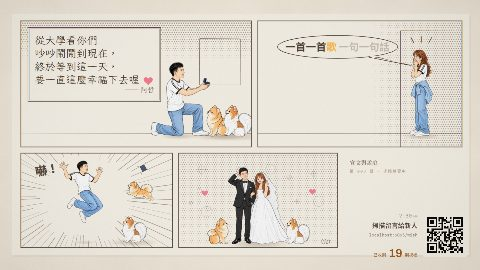
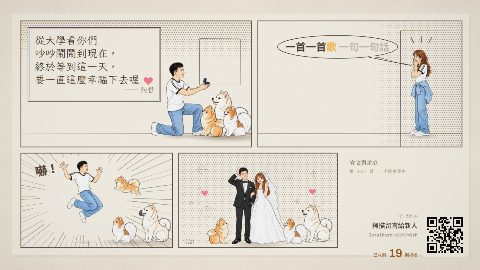
大螢幕：四格漫畫（元元接住飛走的戒指盒）、拍貼機（第四格元元擠進中間）加入元元

diff --git a/frontend/src/wall/scenes/comic.ts b/frontend/src/wall/scenes/comic.ts
@@ -1,8 +1,8 @@
 // 四格漫畫（亮、cartoon）：一頁報紙的彩色四格，兩人的小劇情「求婚練習」。角色是 Codex 畫的漫畫線稿紙偶（*_comic_*）。
-//  - 起：宣文單膝跪地、對著芃芃和 QQ 練習求婚（兩隻狗歪頭）。
+//  - 起：宣文單膝跪地、對著三隻狗練習求婚（芃芃、QQ、元元坐成一排歪頭；元元是 2026-09-30 加入的白色柴犬，比較大、坐在後面）。
 //    承：孟庭從門邊出現，摀住嘴、臉紅（頭上冒驚嘆號）。
-//    轉：宣文嚇得跳起來，戒指盒飛上天，芃芃飛撲去咬（速度線、「嚇！」）。
-//    合：婚禮那天，孟庭秀戒指、宣文抓頭傻笑，兩隻狗坐在前面，愛心一拍冒一顆。
+//    轉：宣文嚇得跳起來，戒指盒飛上天，芃芃飛撲去咬、撲空，元元坐著不動、兩拍後盒子剛好落進牠嘴裡（速度線、「嚇！」）。
+//    合：婚禮那天，孟庭秀戒指、宣文抓頭傻笑，三隻狗坐在兩邊，愛心一拍冒一顆。
 //  - 一格一格出現：前兩格在第一小節裡（第一拍、第三拍，留言和歌詞才來得及），後兩格各在小節線上「啪」一下貼上去（放大一點點再落定）。
 //    每一格裡的角色都跟著拍子動（點頭、歪頭、在空中晃、愛心冒出來），像動態漫畫。
 //  - **焦點是主打留言**：第一格左上的旁白框（漫畫的方框旁白，細的雙線框），手寫字、署名；照「留言尺寸與版面比例標準 v2」：
@@ -16,8 +16,8 @@ import { F, font, loadText } from '../engine/type';
 import { rgba, mixRgba } from '../engine/palette';
 import { clamp, ease, prog, hash } from '../engine/util';
 import { lyricAt, layoutLyric, drawLyric, barAfter, beatAfter, msgChars } from './_motifs';
-import { inkFor, inkLine, inkPath, inkPoly, heartPop, drawNote, paperBG, type Pt, type Ink, type Note } from './_couple';
-import { loadPuppets, drawPuppet, puppetBox, puppetShadow, puppetIn, breathe, beatKick, noteV2, tightenNote, type PuppetOpts } from './_puppet';
+import { inkFor, inkLine, inkPath, inkPoly, heartPop, arcAt, drawNote, paperBG, type Pt, type Ink, type Note } from './_couple';
+import { loadPuppets, drawPuppet, puppetBox, puppetPoint, puppetShadow, puppetIn, breathe, beatKick, noteV2, tightenNote, type PuppetOpts } from './_puppet';
 import { lyricV2 } from './_v2';
 
 export const spec: PlateSpecDecl = { group: 'couple', family: 'cartoon', paper: true, energy: [0.3, 1], bars: [4, 8] };
@@ -38,7 +38,7 @@ const BUB = { x: 1052, y: 124, w: 520 };
 const INVITE = '掃描右下角 QR code，把祝福寫上大螢幕';
 const P = {
   kneel: 'xw_comic_kneel', jump: 'xw_comic_jump', surprise: 'mt_comic_surprise',
-  ppSit: 'pp_comic_sit', qqSit: 'qq_comic_sit', ppJump: 'pp_comic_jump', wedding: 'cp_comic_wedding',
+  ppSit: 'pp_comic_sit', qqSit: 'qq_comic_sit', ppJump: 'pp_comic_jump', yySit: 'yy_comic_sit', wedding: 'cp_comic_wedding',
 } as const;
 
 export default class Comic extends Scene {
@@ -155,9 +155,8 @@ export default class Comic extends Scene {
     c.restore();
     c.font = font(F.hei(500), 20);
     c.fillStyle = rgba('sepia', 0.6);
-    c.textAlign = 'right';
-    c.fillText('（完）', P4.x + P4.w - 16, P4.y + P4.h - 16);
-    c.textAlign = 'left';
+    // 放在左下角：右下角坐著元元（尾巴會蓋到字）
+    c.fillText('（完）', P4.x + 14, P4.y + P4.h - 16);
     // 框線（粗一點的墨線）
     c.strokeStyle = rgba('sepia', 0.92);
     c.lineWidth = 3;
@@ -223,7 +222,8 @@ export default class Comic extends Scene {
     const xa = p.x + 620;
     puppetShadow(c, 'xw', xa, floor, { h: SZ, alpha: 0.22 * en.alpha, color: '70,45,25' });
     drawPuppet(c, P.kneel, xa, floor, { h: SZ, spin: en.spin, alpha: en.alpha, squash: 0.02 * kick + breathe(t, 0.01, 1.6), rot: -0.02 * kick, pivot: 0.1 });
-    const dogs: [string, number][] = [[P.ppSit, p.x + 770], [P.qqSit, p.x + 845]];
+    // 三隻狗坐在他面前歪頭看：元元比較大、坐在後面（先畫），兩隻博美在前面；三隻同一個縮放
+    const dogs: [string, number][] = [[P.yySit, p.x + 812], [P.ppSit, p.x + 745], [P.qqSit, p.x + 842]];
     dogs.forEach(([n, x], k) => {
       const tilt = (beat + k) % 2 === 0 ? 0.08 : -0.02;
       puppetShadow(c, n, x, floor, { h: SZ * 1.2, alpha: 0.2 * en.alpha, color: '70,45,25' });
@@ -313,27 +313,36 @@ export default class Comic extends Scene {
     const xa = p.x + 250;
     puppetShadow(c, 'xw', xa, floor, { h: SZ, lift: 60 * up, alpha: 0.22 * en.alpha, color: '70,45,25' });
     drawPuppet(c, P.jump, xa, floor - 60 * up - bob, { h: SZ, spin: en.spin, alpha: en.alpha, rot: -0.06 * up, pivot: 0.5 });
-    // 戒指盒：從他手上飛出去，轉著往右上
+    // 戒指盒：從他手上飛出去、轉著畫一道弧線，兩拍後落進元元嘴裡（芃芃飛撲撲空，元元坐著不動就接到了）
+    const yx = p.x + 522, yo: PuppetOpts = { h: SZ, scale: 1.3, flip: true };
+    const mouth = puppetPoint(P.yySit, 'mouth', yx, floor, yo) ?? { x: yx - 60, y: floor - 120 };
     const k = clamp((t - t0) / (bp * 2));
-    const bxx = xa + 60 + 170 * k, byy = floor - 180 - 110 * Math.sin(Math.PI * 0.5 * k) + 4 * Math.sin(t * 7);
+    const from = { x: xa + 60, y: floor - 180 };
+    const q = k < 1 ? arcAt(from, mouth, Math.min(from.y, mouth.y) - 110, ease.inOutCubic(k)) : mouth;
+    const bxx = q.x, byy = q.y;
     c.save();
-    c.translate(bxx, byy); c.rotate(t * 5);
+    c.translate(bxx, byy); c.rotate(k < 1 ? t * 5 : 0.25);
     c.fillStyle = mixRgba('leash', 'sepia', 0.5);
     c.fillRect(-11, -9, 22, 18);
     c.strokeStyle = rgba('sepia', 0.9); c.lineWidth = 1.5; c.strokeRect(-11, -9, 22, 18);
     c.restore();
-    c.strokeStyle = rgba('sepia', 0.6); c.lineWidth = 1.5;
-    c.beginPath();
-    for (let i = 0; i < 4; i++) { const a = i * 1.57 + t * 3; c.moveTo(bxx + Math.cos(a) * 18, byy + Math.sin(a) * 18); c.lineTo(bxx + Math.cos(a) * 26, byy + Math.sin(a) * 26); }
-    c.stroke();
-    // 芃芃飛撲過去（在空中晃）、QQ 在地上
+    // 飛的時候盒子旁邊幾條閃光線；接到之後元元嘴邊冒一顆小愛心
+    if (k < 1) {
+      c.strokeStyle = rgba('sepia', 0.6); c.lineWidth = 1.5;
+      c.beginPath();
+      for (let i = 0; i < 4; i++) { const a = i * 1.57 + t * 3; c.moveTo(bxx + Math.cos(a) * 18, byy + Math.sin(a) * 18); c.lineTo(bxx + Math.cos(a) * 26, byy + Math.sin(a) * 26); }
+      c.stroke();
+    } else heartPop(c, mouth.x - 10, mouth.y - 40, 22, (t - t0 - bp * 2) / 1.1);
+    // 芃芃飛撲過去（在空中晃，撲空）、QQ 在地上嚇一跳；元元坐在右邊（先畫，盒子在牠嘴前）
+    puppetShadow(c, 'yy', yx, floor, { h: SZ * 1.3, alpha: 0.2 * en.alpha, color: '70,45,25' });
+    drawPuppet(c, P.yySit, yx, floor, { ...yo, spin: en.spin, alpha: en.alpha, squash: k >= 1 ? 0.03 * Math.exp(-(t - t0 - bp * 2) / 0.2) : 0 });
     const ep = puppetIn(t, t0 + bp, 0.3);
-    if (ep.alpha > 0) drawPuppet(c, P.ppJump, p.x + 470 - 40 * (1 - ep.k), floor - 150 + bob * 0.8, { h: SZ, scale: 1.3, flip: true, spin: ep.spin, alpha: ep.alpha, rot: 0.1, pivot: 0.5 });
-    puppetShadow(c, 'qq', p.x + 440, floor, { h: SZ * 1.3, alpha: 0.2 * en.alpha, color: '70,45,25' });
-    drawPuppet(c, P.qqSit, p.x + 440, floor - 10 * beatKick(au, t, 0.2), { h: SZ, scale: 1.3, flip: true, spin: en.spin, alpha: en.alpha });
+    if (ep.alpha > 0) drawPuppet(c, P.ppJump, p.x + 420 - 40 * (1 - ep.k), floor - 170 + bob * 0.8, { h: SZ, scale: 1.3, flip: true, spin: ep.spin, alpha: ep.alpha, rot: 0.1, pivot: 0.5 });
+    puppetShadow(c, 'qq', p.x + 400, floor, { h: SZ * 1.3, alpha: 0.2 * en.alpha, color: '70,45,25' });
+    drawPuppet(c, P.qqSit, p.x + 400, floor - 10 * beatKick(au, t, 0.2), { h: SZ, scale: 1.3, flip: true, spin: en.spin, alpha: en.alpha });
   }
 
-  /** 合：婚禮那天，兩個人（每拍點一下）、兩隻狗坐在前面、愛心一拍冒一顆。 */
+  /** 合：婚禮那天，兩個人（每拍點一下）、三隻狗坐在兩邊、愛心一拍冒一顆。 */
   private panel4(c: CanvasRenderingContext2D, t: number, p: Rect, bp: number) {
     const au = this.ctx.audio;
     const floor = p.y + 356, SZ = 300;
@@ -344,8 +353,10 @@ export default class Comic extends Scene {
     puppetShadow(c, 'cp', x, floor, { h: SZ, alpha: 0.22 * en.alpha, color: '70,45,25' });
     drawPuppet(c, P.wedding, x, floor, { h: SZ, spin: en.spin, alpha: en.alpha, squash: 0.02 * kick + breathe(t, 0.01, 2.4), rot: 0.015 * Math.sin(au.beatAt(t) * Math.PI) });
     const o: PuppetOpts = { h: SZ, scale: 1.2, spin: en.spin, alpha: en.alpha };
+    // 三隻狗坐在兩邊：芃芃在左；元元（比較大）坐在右邊後面、QQ 在牠前面
     drawPuppet(c, P.ppSit, x - 150, floor, { ...o, rot: 0.04 * Math.sin(au.beatAt(t) * Math.PI), pivot: 0.2 });
-    drawPuppet(c, P.qqSit, x + 150, floor, { ...o, flip: true, rot: -0.04 * Math.sin(au.beatAt(t) * Math.PI), pivot: 0.2 });
+    drawPuppet(c, P.yySit, x + 225, floor - 6, { ...o, flip: true, rot: -0.03 * Math.sin(au.beatAt(t) * Math.PI + 1), pivot: 0.2 });
+    drawPuppet(c, P.qqSit, x + 140, floor, { ...o, flip: true, rot: -0.04 * Math.sin(au.beatAt(t) * Math.PI), pivot: 0.2 });
     const b = Math.floor(au.beatAt(t) + 1e-6);
     for (let k = 0; k < 3; k++) {
       const bb = b - k, tb = au.timeOfBeat(bb);
